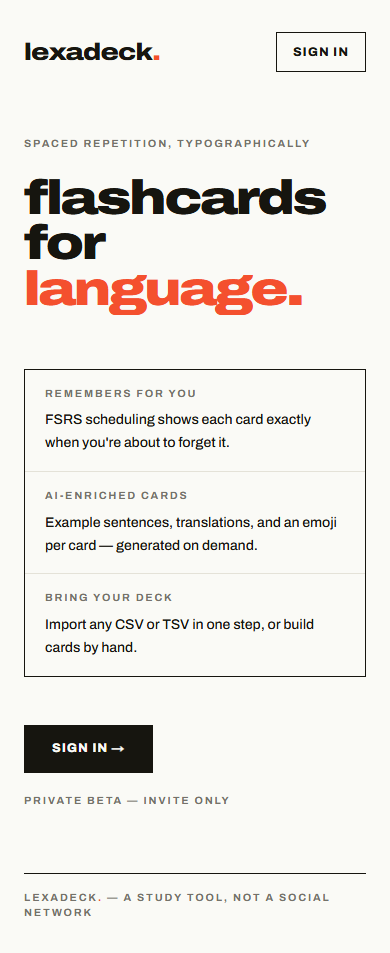
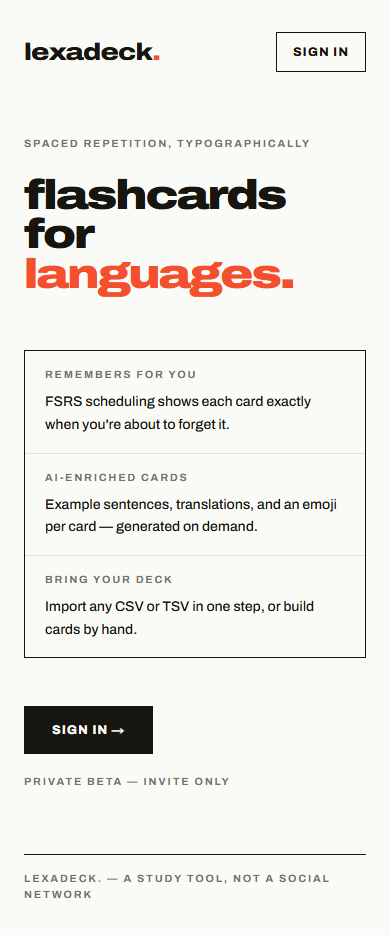
Tagline revisions: 10 use-case words, dashboard goes static
- Rotation list is now languages / medicine / exams / science /
  certifications / law / history / coding / geography / music
- Dashboard subtitle no longer spins (too flashy signed-in) — static
  "flashcard <subject> learning" via resolveSubjectWord, which will read the
  most recently opened deck's subject once decks have one (today: language)
- WordSpinner simplified to loop-only; spinFrames/landOn machinery removed
- Landing headline sized so "certifications." fits a 390px phone

diff --git a/lib/spinner.test.ts b/lib/spinner.test.ts
@@ -1,53 +1,29 @@
 import { describe, expect, it } from "vitest";
-import { resolveSpinnerWord, SPINNER_WORDS, spinFrames } from "./spinner";
+import { resolveSubjectWord, SPINNER_WORDS } from "./spinner";
 
 describe("SPINNER_WORDS", () => {
-  it("leads with language and includes the aspirational domains", () => {
-    expect(SPINNER_WORDS[0]).toBe("language");
-    expect(SPINNER_WORDS).toContain("law");
-    expect(SPINNER_WORDS).toContain("medicine");
-    expect(SPINNER_WORDS).toContain("geography");
-    expect(SPINNER_WORDS).toContain("test prep");
+  it("rotates through the use-case domains in order", () => {
+    expect(SPINNER_WORDS).toEqual([
+      "languages",
+      "medicine",
+      "exams",
+      "science",
+      "certifications",
+      "law",
+      "history",
+      "coding",
+      "geography",
+      "music",
+    ]);
   });
 });
 
-describe("resolveSpinnerWord", () => {
+describe("resolveSubjectWord", () => {
   it("returns language for language decks", () => {
-    expect(resolveSpinnerWord([{ language: "es" }, { language: "ja" }])).toBe("language");
+    expect(resolveSubjectWord([{ language: "es" }, { language: "ja" }])).toBe("language");
   });
 
   it("defaults to language with no decks", () => {
-    expect(resolveSpinnerWord([])).toBe("language");
-  });
-});
-
-describe("spinFrames", () => {
-  const words = ["language", "law", "medicine"];
-
-  it("ends on the landing word", () => {
-    const frames = spinFrames(words, "medicine", 2);
-    expect(frames[frames.length - 1]).toBe("medicine");
-  });
-
-  it("cycles every word the requested number of times before landing", () => {
-    const frames = spinFrames(words, "language", 2);
-    for (const word of words) {
-      expect(frames.filter((f) => f === word).length).toBeGreaterThanOrEqual(2);
-    }
-  });
-
-  it("never shows the landing word twice in a row at the end", () => {
-    const frames = spinFrames(words, "medicine", 1);
-    expect(frames[frames.length - 2]).not.toBe("medicine");
-  });
-
-  it("handles a landing word that is not in the cycle list", () => {
-    const frames = spinFrames(words, "history", 1);
-    expect(frames[frames.length - 1]).toBe("history");
-    expect(frames.slice(0, -1)).toEqual(expect.arrayContaining(words));
-  });
-
-  it("returns just the landing word for an empty word list", () => {
-    expect(spinFrames([], "language", 2)).toEqual(["language"]);
+    expect(resolveSubjectWord([])).toBe("language");
   });
 });

diff --git a/components/ui/WordSpinner.tsx b/components/ui/WordSpinner.tsx
@@ -1,11 +1,8 @@
 "use client";
 
-import { useEffect, useMemo, useState, useSyncExternalStore } from "react";
-import { spinFrames } from "@/lib/spinner";
+import { useEffect, useState, useSyncExternalStore } from "react";
 
-const STEP_MS = 110; // spin-to-land frame rate
-const LOOP_DWELL_MS = 1800; // calm rotation when cycling forever
-const FIRST_HOLD_MS = 500;
+const DWELL_MS = 1800;
 
 function subscribeReducedMotion(onChange: () => void) {
   const mq = window.matchMedia("(prefers-reduced-motion: reduce)");
@@ -18,25 +15,18 @@ function reducedMotionSnapshot() {
 }
 
 /**
- * Slot-machine word in the tagline. With `landOn` it spins through `words`
- * and decelerates onto the landing word; without it, it cycles forever
- * (landing-page mode). Sized to the current word — neighbors hug the text
- * once it settles.
+ * Rotating word in the landing-page tagline: cycles through `words` with a
+ * quick flip between dwells. Static first word under prefers-reduced-motion.
+ * Sized to the current word — neighbors hug the text.
  */
 export function WordSpinner({
   words,
-  landOn,
   className = "",
 }: {
   words: string[];
-  landOn?: string;
   className?: string;
 }) {
-  const frames = useMemo(
-    () => (landOn ? spinFrames(words, landOn) : [...words]),
-    [words, landOn],
-  );
-  const [current, setCurrent] = useState(frames[0]);
+  const [index, setIndex] = useState(0);
   const reduced = useSyncExternalStore(
     subscribeReducedMotion,
     reducedMotionSnapshot,
@@ -44,27 +34,14 @@ export function WordSpinner({
   );
 
   useEffect(() => {
-    if (reduced || frames.length <= 1) return;
-    const last = frames.length - 1;
-    let i = 0;
-    let timer: ReturnType<typeof setTimeout>;
-    const step = () => {
-      i = landOn ? Math.min(i + 1, last) : (i + 1) % frames.length;
-      setCurrent(frames[i]);
-      if (landOn && i === last) return; // settled
-      let delay = LOOP_DWELL_MS;
-      if (landOn) {
-        // decelerate over the final few frames so the landing reads as a settle
-        const remaining = last - i;
-        delay = remaining <= 3 ? STEP_MS * (5 - remaining) : STEP_MS;
-      }
-      timer = setTimeout(step, delay);
-    };
-    timer = setTimeout(step, landOn ? FIRST_HOLD_MS : LOOP_DWELL_MS);
-    return () => clearTimeout(timer);
-  }, [frames, landOn, reduced]);
+    if (reduced || words.length <= 1) return;
+    const id = setInterval(() => {
+      setIndex((i) => (i + 1) % words.length);
+    }, DWELL_MS);
+    return () => clearInterval(id);
+  }, [reduced, words.length]);
 
-  const displayed = reduced ? (landOn ?? words[0]) : current;
+  const displayed = reduced ? words[0] : words[index];
 
   return (
     <span key={displayed} className={`word-spin-in inline-block ${className}`}>

diff --git a/lib/spinner.ts b/lib/spinner.ts
@@ -1,34 +1,33 @@
 /**
- * Word spinner for the "flashcards for <word>" tagline: the subtitle cycles
- * through the domains LexaDeck aspires to and lands on the one matching the
- * user's decks. Pure frame logic lives here; components only play frames.
+ * Use-case words for the "flashcards for <word>" tagline. The public landing
+ * page cycles through all of them; the signed-in dashboard shows one static
+ * subject word resolved from the user's decks.
  */
 
-export const SPINNER_WORDS = ["language", "law", "medicine", "geography", "test prep"];
+export const SPINNER_WORDS = [
+  "languages",
+  "medicine",
+  "exams",
+  "science",
+  "certifications",
+  "law",
+  "history",
+  "coding",
+  "geography",
+  "music",
+];
 
-export interface SpinnerDeck {
+export interface SubjectDeck {
   language: string;
 }
 
 /**
- * The word the dashboard spinner should land on. Every deck today is a
- * language deck, so this is constant — it becomes a real dispatch the day
- * decks grow a subject/domain field (see the Aspirational board card).
+ * Dashboard tagline word ("flashcard <word> learning") for the most recently
+ * opened deck. Every deck today is a language deck, so this is constant — it
+ * becomes a real dispatch the day decks grow a subject/domain field (see the
+ * "Domain-aware decks" Aspirational board card).
  */
-export function resolveSpinnerWord(decks: readonly SpinnerDeck[]): string {
+export function resolveSubjectWord(decks: readonly SubjectDeck[]): string {
   void decks;
   return "language";
-}
-
-/**
- * Deterministic frame sequence: `cycles` passes through `words`, ending on
- * `landOn`. The frame before the landing is never `landOn` itself, so the
- * final settle always reads as a change.
- */
-export function spinFrames(words: readonly string[], landOn: string, cycles = 2): string[] {
-  const frames: string[] = [];
-  for (let i = 0; i < cycles; i++) frames.push(...words);
-  while (frames.length > 0 && frames[frames.length - 1] === landOn) frames.pop();
-  frames.push(landOn);
-  return frames;
 }

diff --git a/app/(main)/page.tsx b/app/(main)/page.tsx
@@ -7,8 +7,7 @@ import { DeckTile } from "@/components/deck/DeckTile";
 import { requireUser } from "@/lib/auth";
 import { LAST_DECK_COOKIE } from "@/lib/decks";
 import { greetingFor, resolveGreetingLanguage } from "@/lib/greeting";
-import { resolveSpinnerWord, SPINNER_WORDS } from "@/lib/spinner";
-import { WordSpinner } from "@/components/ui/WordSpinner";
+import { resolveSubjectWord } from "@/lib/spinner";
 import { getDeckSummaries } from "@/lib/queries";
 import { APP_TZ, getReviewActivity } from "@/lib/stats";
 import { prisma } from "@/lib/db";
@@ -53,12 +52,7 @@ export default async function DashboardPage() {
       <header className="border-b-[3px] border-line pb-8">
         <p className="label-caps mb-4 text-muted">
           lexadeck<span className="text-coral">.</span> — flashcard{" "}
-          <WordSpinner
-            words={SPINNER_WORDS}
-            landOn={resolveSpinnerWord(decks)}
-            className="text-ink"
-          />{" "}
-          learning
+          {resolveSubjectWord(decks)} learning
         </p>
         <h1 className="type-display text-5xl md:text-7xl">
           {greetingFor(greetingLang, currentHour())},

diff --git a/app/globals.css b/app/globals.css
@@ -141,9 +141,9 @@ select option {
   }
 }
 .word-spin-in {
-  /* must finish inside the fastest spin step (110ms) or the word never
-     reaches full opacity while cycling */
-  animation: word-spin-in 100ms ease-out;
+  /* must finish well inside the rotation dwell so the word always reaches
+     full opacity before the next flip */
+  animation: word-spin-in 140ms ease-out;
 }
 @media (prefers-reduced-motion: reduce) {
   .word-spin-in {

diff --git a/app/welcome/page.tsx b/app/welcome/page.tsx
@@ -23,7 +23,8 @@ export default async function WelcomePage() {
 
       <main className="flex flex-1 flex-col justify-center py-16">
         <p className="label-caps mb-6 text-muted">spaced repetition, typographically</p>
-        <h1 className="type-display text-5xl sm:text-7xl md:text-8xl">
+        {/* mobile size fits the widest rotation word ("certifications.") on 390px */}
+        <h1 className="type-display text-[2.6rem] sm:text-7xl md:text-8xl">
           flashcards
           <br />
           for{" "}